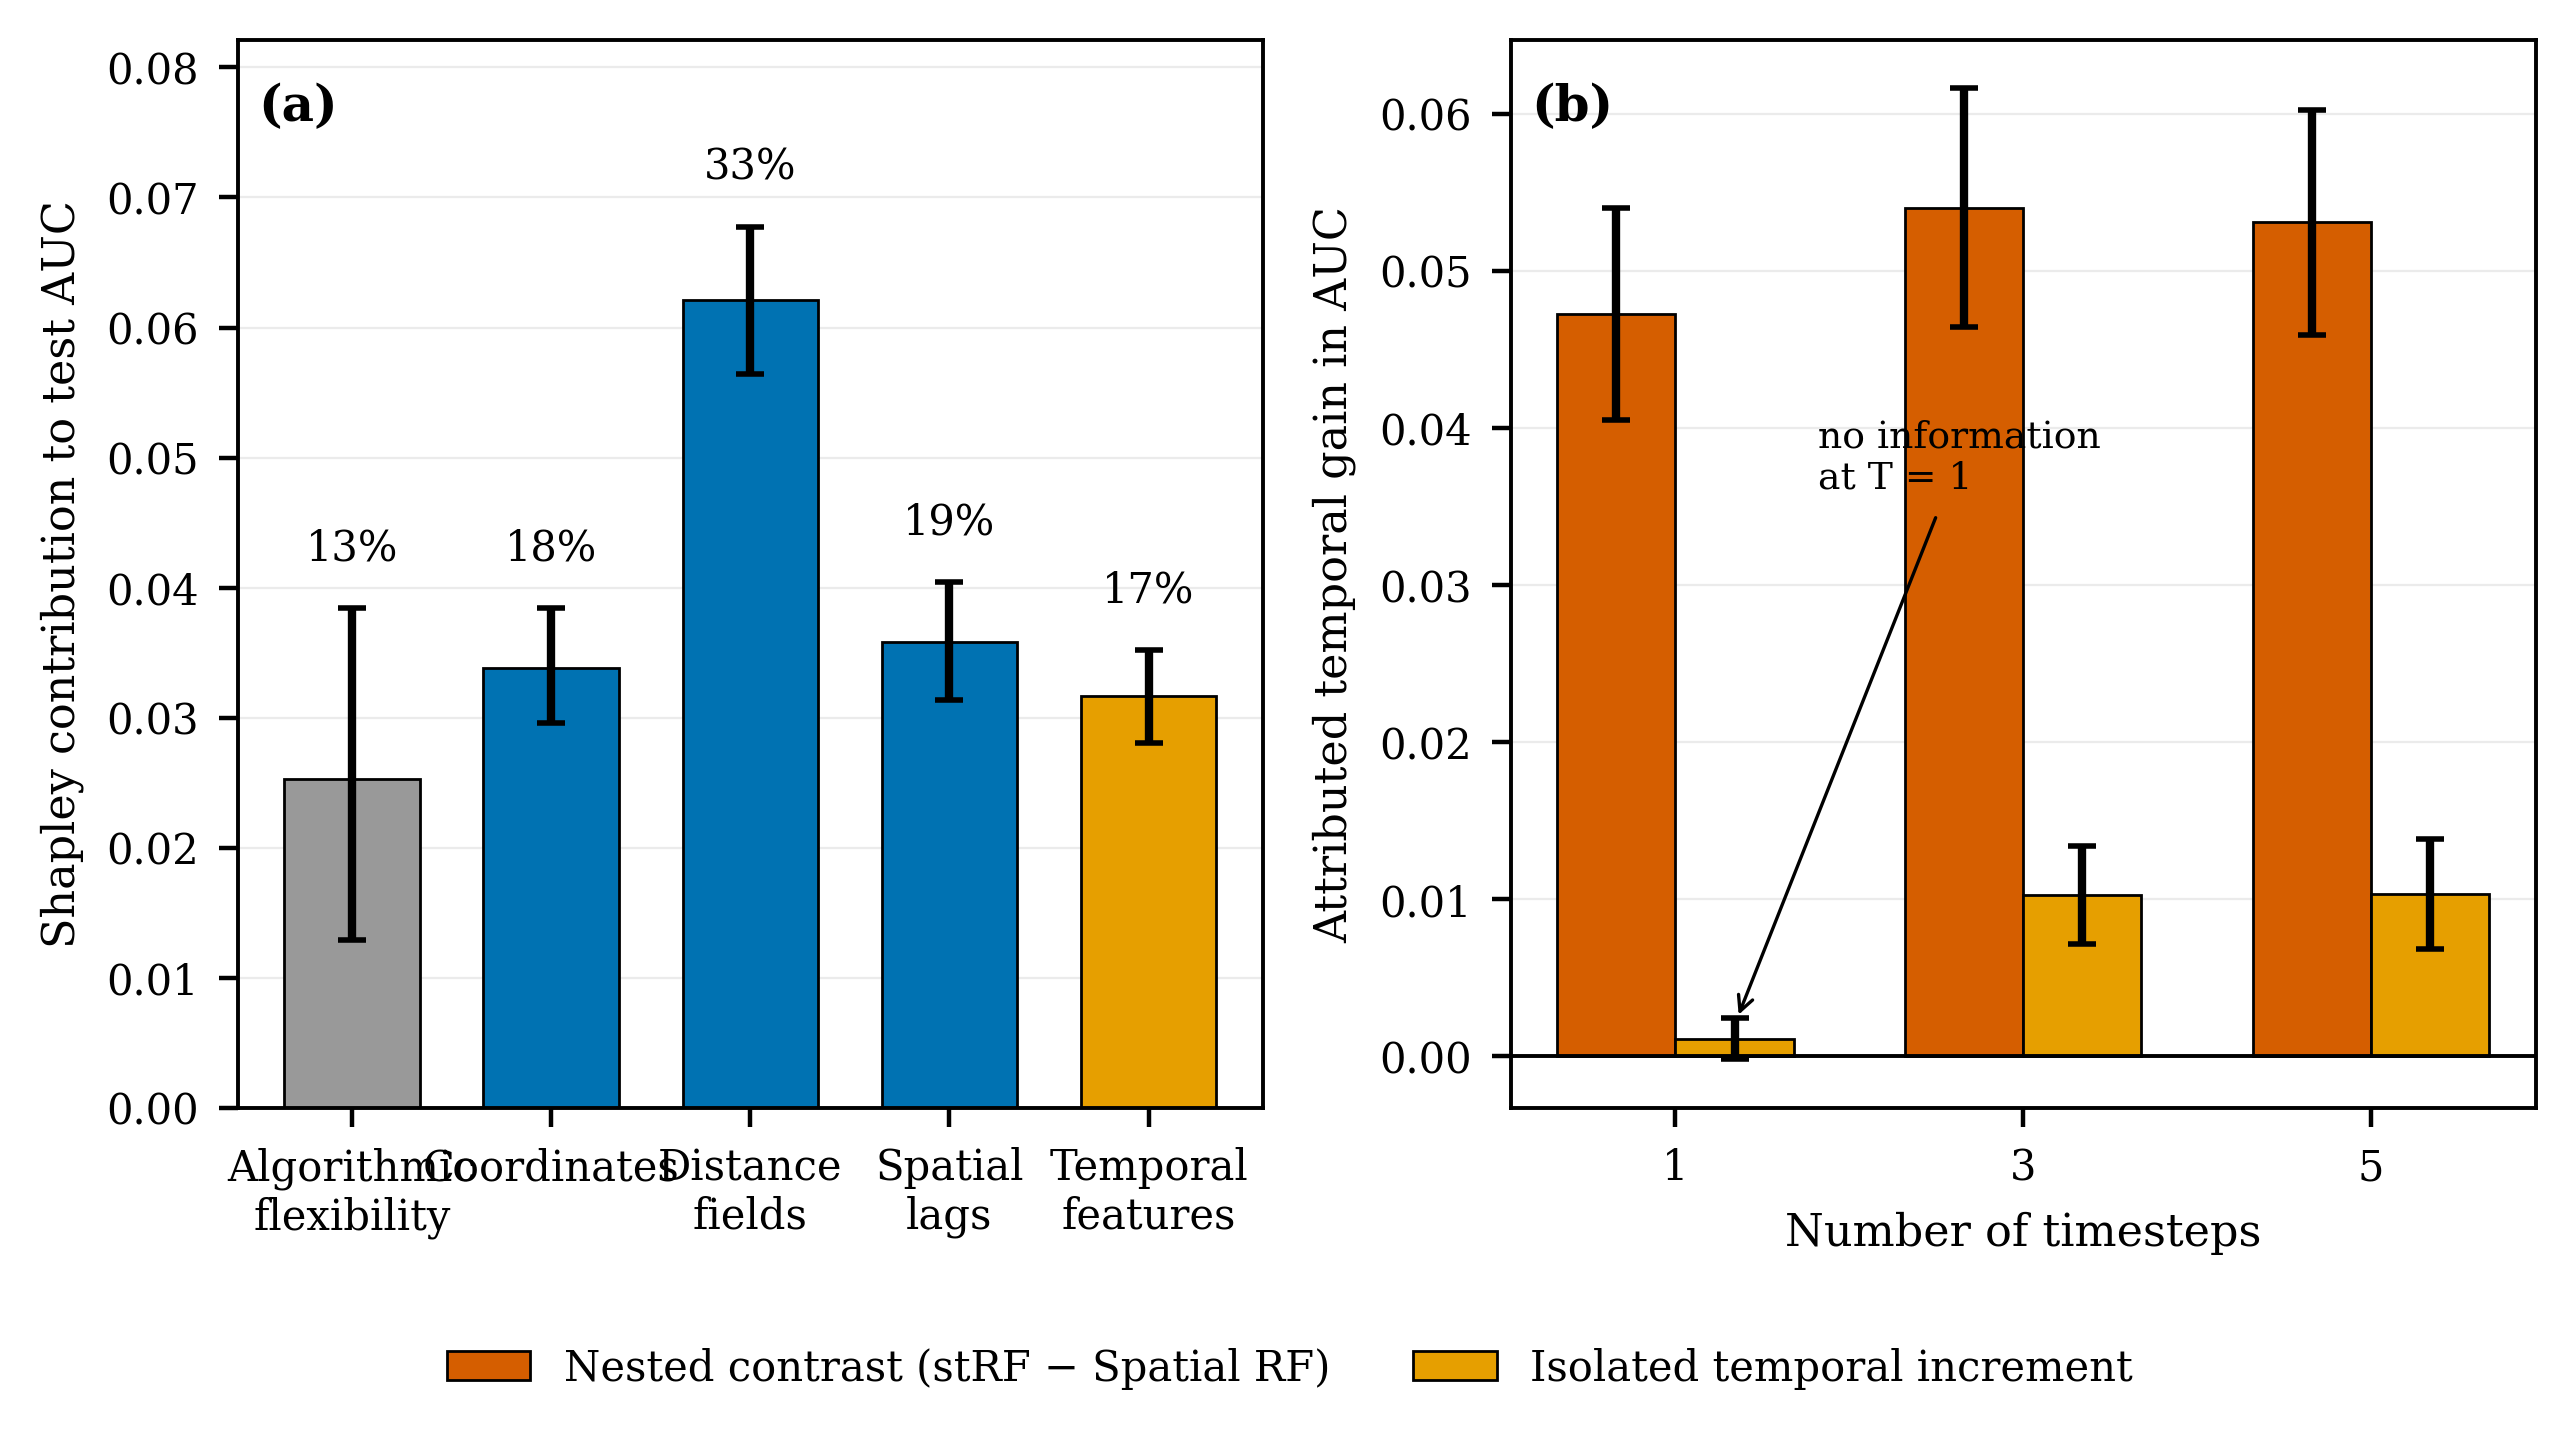
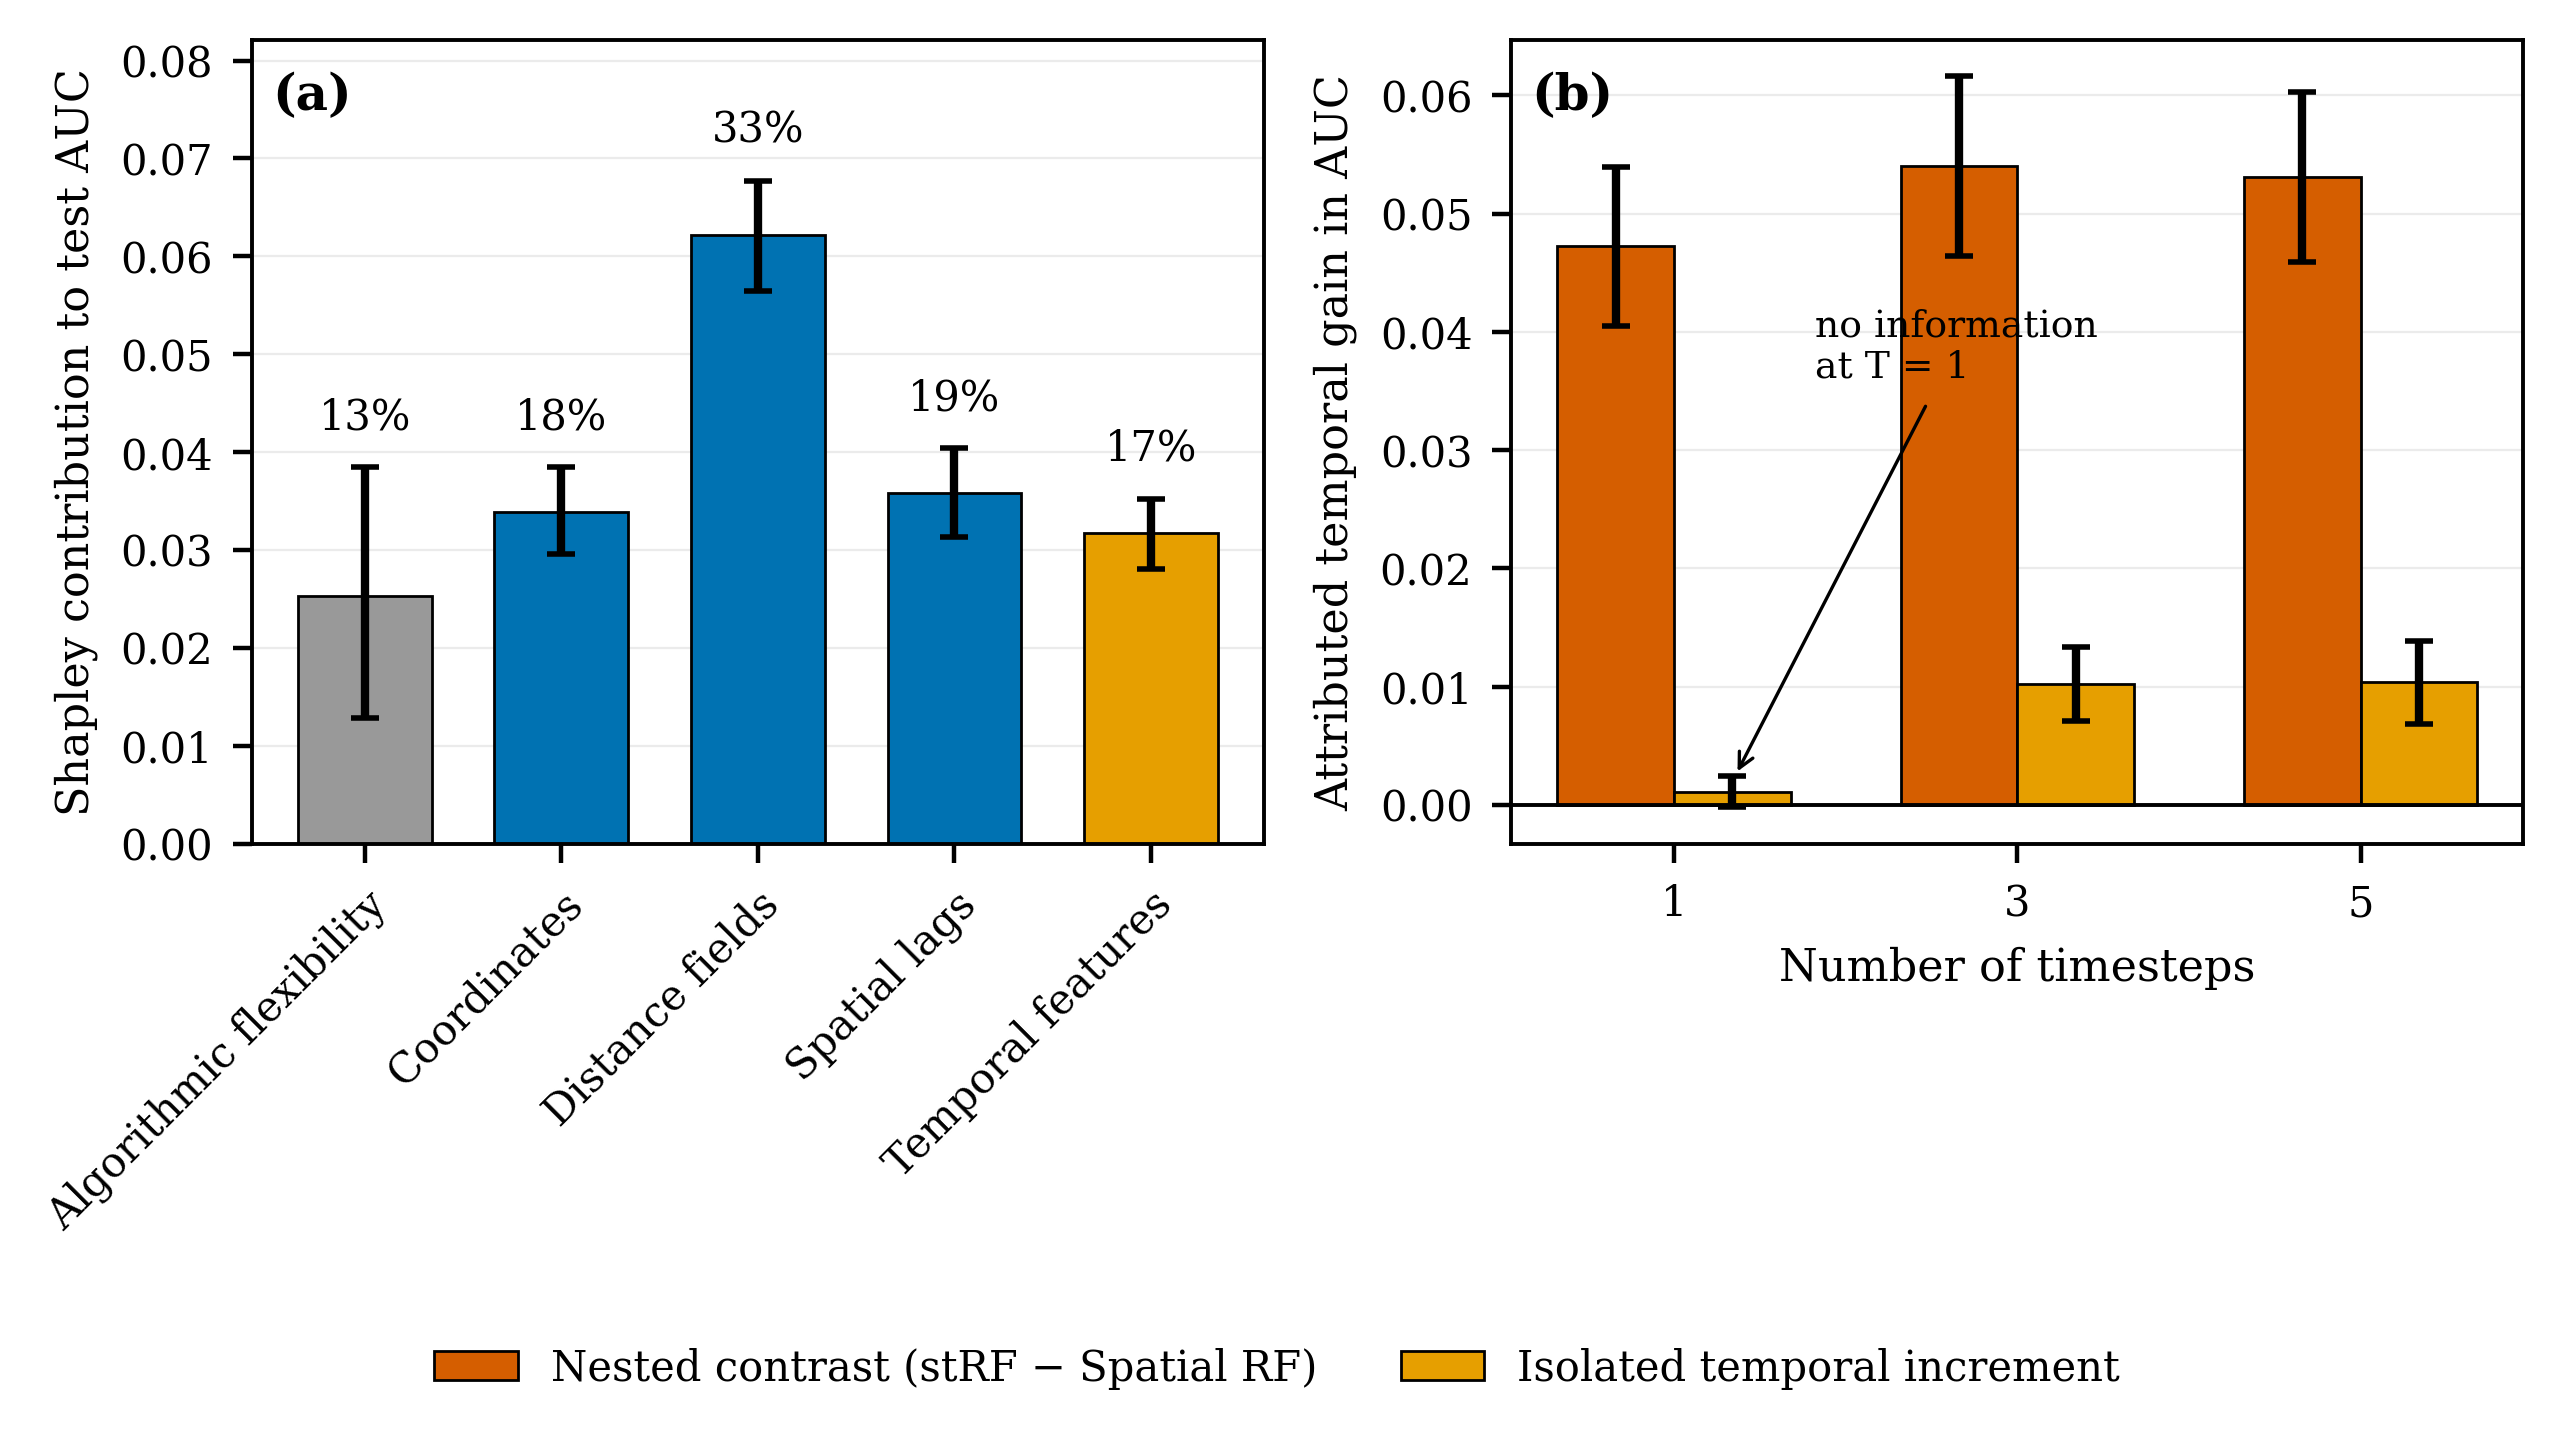
Tilt Figure 2 panel (a) axis labels to 45 degrees
The two-line block labels crowded at the rendered width of 6.5 in. Labels are
now single line, rotated 45 degrees with anchored rotation and right alignment.
Perpendicular clearance between adjacent label strips is 2.61 times the line
height, so the glyphs are well separated.

diff --git a/python/render_figs.py b/python/render_figs.py
@@ -24,8 +24,8 @@ def figure2():
     df = pd.read_csv(f"{R}/ablation_decomposed.csv")
     fig, ax = plt.subplots(1, 2, figsize=(6.5, 3.55))
 
-    labels = ["Algorithmic\nflexibility", "Coordinates", "Distance\nfields",
-              "Spatial\nlags", "Temporal\nfeatures"]
+    labels = ["Algorithmic flexibility", "Coordinates", "Distance fields",
+              "Spatial lags", "Temporal features"]
     keys = ["ML", "COORD", "EDF", "LAG", "TEMP"]
     cols = [OK["grey"], OK["blue"], OK["blue"], OK["blue"], OK["orange"]]
     est = [d["shapley"][k][0] for k in keys]
@@ -39,7 +39,8 @@ def figure2():
         ax[0].text(i, v + hi[i] + 0.003, f"{100*v/total:.0f}%",
                    ha="center", va="bottom", fontsize=7.5)
     ax[0].set_xticks(range(5))
-    ax[0].set_xticklabels(labels, fontsize=6.8)
+    ax[0].set_xticklabels(labels, fontsize=7.2, rotation=45, ha="right",
+                          rotation_mode="anchor")
     ax[0].set_ylabel("Shapley contribution to test AUC", fontsize=8)
     ax[0].set_ylim(0, max(est) + 0.020)
     ax[0].tick_params(labelsize=7.5)
@@ -74,7 +75,7 @@ def figure2():
     h, l = ax[1].get_legend_handles_labels()
     fig.legend(h, l, loc="lower center", ncol=2, frameon=False, fontsize=7.5,
                bbox_to_anchor=(0.5, -0.015))
-    fig.tight_layout(rect=[0, 0.075, 1, 1])
+    fig.tight_layout(rect=[0, 0.085, 1, 1])
     fig.savefig(f"{R}/FIG_decomposition.png", dpi=400, bbox_inches="tight")
     plt.close(fig)
     print("  FIG_decomposition.png")
